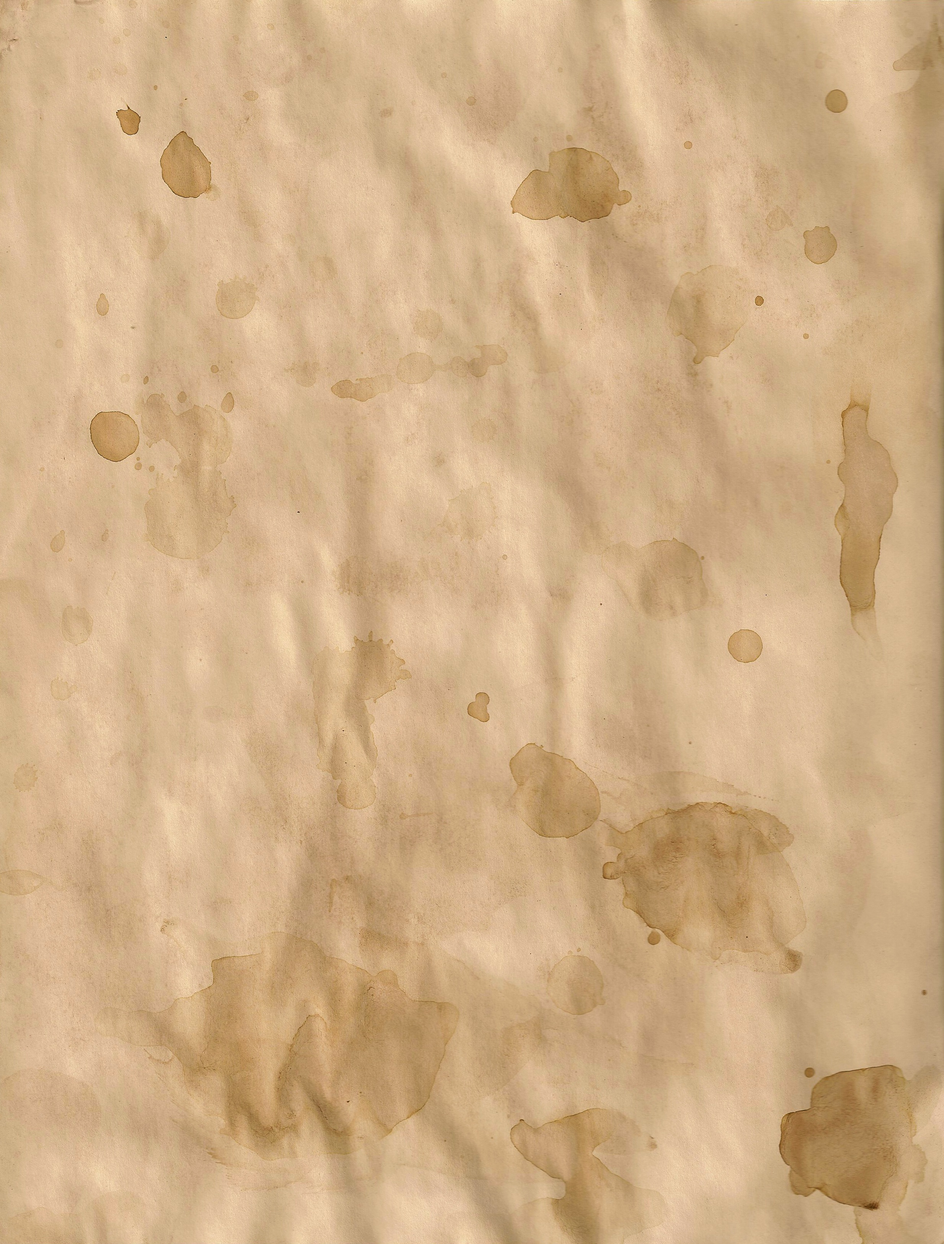
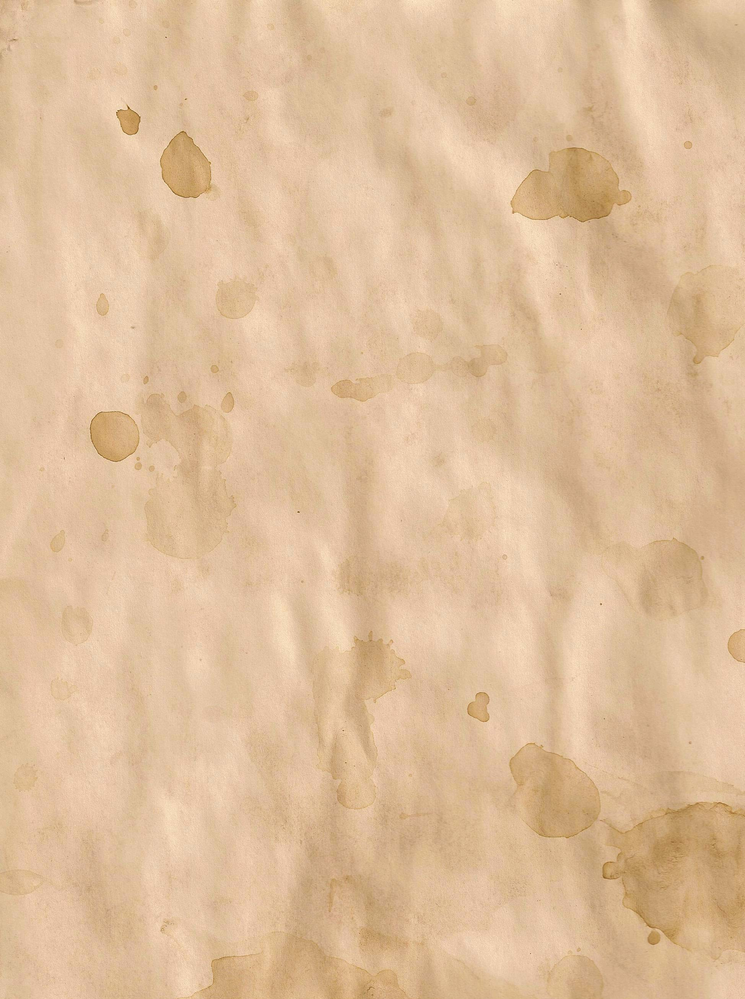
Refactored SASS, deleted pictures and optimized existing pictures for faster page load.

diff --git a/public/stylesheets/application.css b/public/stylesheets/application.css
@@ -37,7 +37,7 @@ h1 {
 /* line 31, ../../app/stylesheets/partials/_typography.sass */
 h2 {
   font-size: 2em;
-  margin-bottom: 0.75em;
+  margin: 0.5em 0;
 }
 
 /* line 35, ../../app/stylesheets/partials/_typography.sass */
@@ -89,7 +89,7 @@ p {
 
 /* line 70, ../../app/stylesheets/partials/_typography.sass */
 p .left {
-  margin: 1.5em 1.5em 1.5em 0;
+  margin: 1em 1em 1em 0;
   padding: 0;
 }
 
@@ -100,7 +100,7 @@ p .left {
 
 /* line 77, ../../app/stylesheets/partials/_typography.sass */
 p .right {
-  margin: 1.5em 0 1.5em 1.5em;
+  margin: 1em 0 1em 1em;
   padding: 0;
 }
 
@@ -324,7 +324,7 @@ caption {
 
 /* line 18, ../../app/stylesheets/application.sass */
 body {
-  background: url(../images/bg.png) center #111111;
+  background: url(../images/bg.jpg) center;
 }
 /* line 21, ../../app/stylesheets/application.sass */
 body #header {
@@ -336,15 +336,15 @@ body #header {
   border-radius: 20px;
   box-shadow: 10px 10px 5px black;
   -webkit-box-shadow: 10px 10px 5px black;
-  background: url(../images/header.png);
+  background: url(../images/header.jpg);
 }
-/* line 26, ../../app/stylesheets/application.sass */
+/* line 27, ../../app/stylesheets/application.sass */
 body #primary {
   width: 800px;
   margin: 0 auto;
   padding: 20px 30px;
 }
-/* line 29, ../../app/stylesheets/application.sass */
+/* line 30, ../../app/stylesheets/application.sass */
 body #primary #profile img {
   -webkit-border-radius: 20px;
   -moz-border-radius: 20px;
@@ -354,7 +354,7 @@ body #primary #profile img {
   display: block;
   margin: 20px auto 30px auto;
 }
-/* line 34, ../../app/stylesheets/application.sass */
+/* line 36, ../../app/stylesheets/application.sass */
 body #primary #timeline {
   -webkit-border-radius: 20px;
   -moz-border-radius: 20px;
@@ -363,11 +363,11 @@ body #primary #timeline {
   -webkit-box-shadow: 10px 10px 5px black;
   background: url(../images/brown_bg.jpg);
 }
-/* line 38, ../../app/stylesheets/application.sass */
+/* line 41, ../../app/stylesheets/application.sass */
 body #primary #timeline ol li {
   padding: 10px;
 }
-/* line 41, ../../app/stylesheets/application.sass */
+/* line 44, ../../app/stylesheets/application.sass */
 body #footer {
   width: 800px;
   margin: 0 auto;

diff --git a/app/stylesheets/application.sass b/app/stylesheets/application.sass
@@ -1,8 +1,6 @@
 @import "partials/base"
 @import "partials/typography"
 
-$bgcolor: #CC9966
-
 @mixin base
   width: 800px
   margin: 0 auto
@@ -12,27 +10,32 @@ $bgcolor: #CC9966
   -webkit-border-radius: $radius
   -moz-border-radius: $radius
   border-radius: $radius
+
+@mixin lower-right-shadow
   box-shadow: 10px 10px 5px #000
   -webkit-box-shadow: 10px 10px 5px #000
 
 body
-  background: url(../images/bg.png) center #111111
+  background: url(../images/bg.jpg) center
   
   #header
     @include base
     @include roundcorner(20px)
-    background: url(../images/header.png)
+    @include lower-right-shadow
+    background: url(../images/header.jpg)
     
   #primary
     @include base
     #profile
       img
         @include roundcorner(20px)
+        @include lower-right-shadow
         display: block
         margin: 20px auto 30px auto
       
     #timeline
       @include roundcorner(20px)
+      @include lower-right-shadow
       background: url(../images/brown_bg.jpg)
       ol
         li

diff --git a/app/stylesheets/partials/_typography.sass b/app/stylesheets/partials/_typography.sass
@@ -30,7 +30,7 @@ h1
 
 h2
   font-size: 2em
-  margin-bottom: 0.75em
+  margin: 0.5em 0 
 
 h3
   font-size: 1.5em
@@ -68,14 +68,14 @@ p
   float: left !important
 
 p .left
-  margin: 1.5em 1.5em 1.5em 0
+  margin: 1em 1em 1em 0
   padding: 0
 
 .right
   float: right !important
 
 p .right
-  margin: 1.5em 0 1.5em 1.5em
+  margin: 1em 0 1em 1em
   padding: 0
 
 a:focus,
